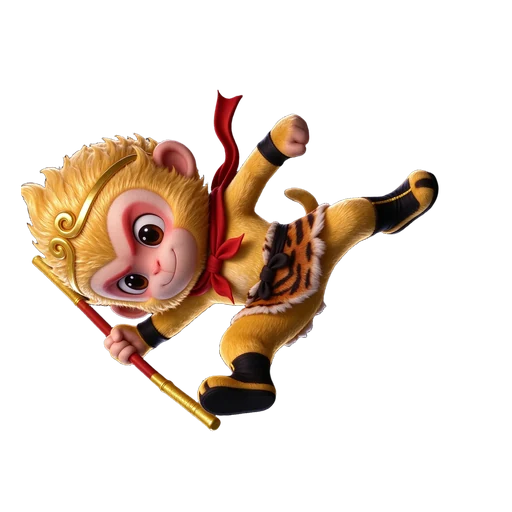
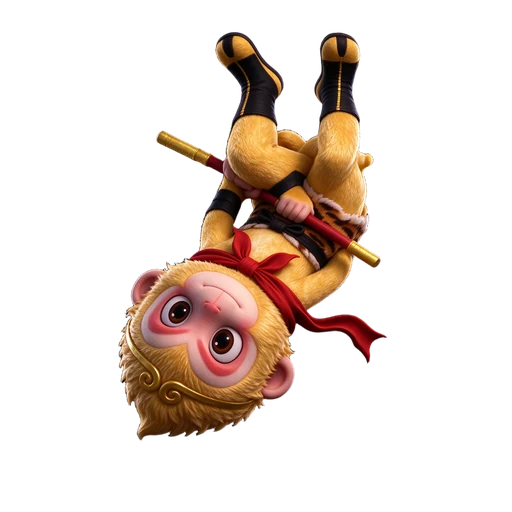
悟空后空翻改为AI真实姿态8帧分解(起跳-蜷缩-倒立-翻越下落-落地),删除PIL旋转残帧

diff --git a/src/components/quest/WukongAiAssistant.jsx b/src/components/quest/WukongAiAssistant.jsx
@@ -10,7 +10,7 @@ import { toast } from '../../lib/toast'
 // props: statement={russian, chinese} 当前练习句子；modeLabel 模式中文名（如"中译俄"）
 const WUKONG_CLOUD = '/images/ai-assistant/wukong-cloud.webp'    // 筋斗云底座（静止）
 const WUKONG_IDLE  = '/images/ai-assistant/wukong-body-1.webp'   // 悟空待机：站立瞭望
-const FLIP_FRAMES = [                                            // 后空翻 11 帧（36°步进：起跳0°→36°→72°→108°→144°→180°倒立→216°→252°→288°→324°→360°落地）
+const FLIP_FRAMES = [                                            // 后空翻 8 帧（AI 真实姿态分解：起跳腾空→蜷缩翻滚→倒立→翻越倾斜下落→落地站稳）
   '/images/ai-assistant/flip-1.webp',
   '/images/ai-assistant/flip-2.webp',
   '/images/ai-assistant/flip-3.webp',
@@ -19,9 +19,6 @@ const FLIP_FRAMES = [                                            // 后空翻 11
   '/images/ai-assistant/flip-6.webp',
   '/images/ai-assistant/flip-7.webp',
   '/images/ai-assistant/flip-8.webp',
-  '/images/ai-assistant/flip-9.webp',
-  '/images/ai-assistant/flip-10.webp',
-  '/images/ai-assistant/flip-11.webp',
 ]
 const WAVE_FRAMES = [                                            // 招手 4 帧（抬手→举高→大幅摆→胸前挥）
   '/images/ai-assistant/wave-1.webp',
@@ -74,7 +71,7 @@ export default function WukongAiAssistant({ statement, modeLabel = '练习' }) {
       let nextFi = 0
       if (t <= 18) { nextAct = 'idle' }
       else if (t <= 20) { nextAct = 'prep' }
-      else if (t <= 53) { nextAct = 'flip'; nextFi = Math.min(10, Math.floor((t - 21) / 3)) }
+      else if (t <= 53) { nextAct = 'flip'; nextFi = Math.min(7, Math.floor((t - 21) / 4)) }
       else if (t <= 59) { nextAct = 'idle' }
       else if (t <= 71) { nextAct = 'wave'; nextFi = Math.min(3, Math.floor((t - 60) / 3)) }
       else if (t >= 88) { nextAct = 'idle'; tickRef.current = 0 }
